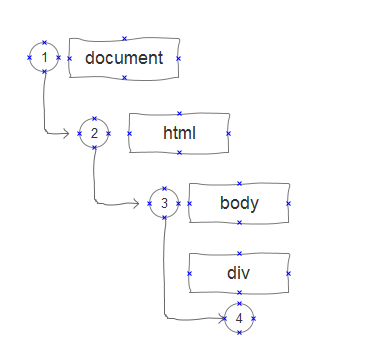
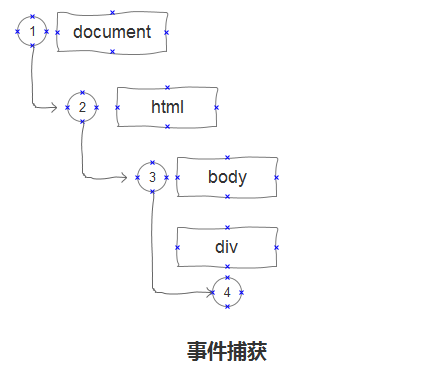
update Readme.md

diff --git a/2016/javascript事件.md b/2016/javascript事件.md
@@ -10,9 +10,8 @@
 * `事件处理程序`：通俗点来说，用来处理或响应事件的函数，而注册方式有很多种。
 
 ##进入主题
-###事件流
-“事件”本身并不是一个专业术语，大多情况下，我们都是用它来描述发生了什么事情，而在浏览器中，我们可以理解为浏览器或文档的发生的事情，很好理解，这里就没有必要继续阐述了。  
-我个人比较关注了还是“**事件流**”，作为一名初级前端开发程序员，我曾经对这个概念相当的模糊，不是因为本身的概念很难明白，而是这个概念要追溯到上个世纪90年代的，由于当时的浏览器开发商微软和Netscape（网景）对于事件流提出了几乎完全相反的事件流。  
+###事件流  
+作为一名初级前端开发程序员，我曾经对这个概念相当的模糊，不是因为本身的概念很难明白，而是这个概念要追溯到上个世纪90年代的，当时对事件流的理解没有达成一致，浏览器开发团队微软和Netscape（网景）对于事件流提出了几乎完全相反的事件流。  
 
 * IE：它认为事件流是事件冒泡流。
 * Netscape：它则认为事件流是事件捕获流。
@@ -20,14 +19,52 @@
 ####事件冒泡流   
 由IE开发团队提出，它认为事件开始时由最具体的元素接收，然后，逐级向上传播到较为不具体的节点。 这个很比较理解，因为生活中有很多直观的例子，比如水中的鱼儿吐出的气泡（事件）。如图  
 ![小鱼冒泡](https://raw.githubusercontent.com/linjinying/jsnotes/master/pictrues/2016/1.png)  
-也就是说，在浏览器的DOM结构中，假设用户点击了某个节点，此时这个事件就像鱼儿吐了一个气泡一样，一层又一层的向上冒泡，一直冒泡到了水平面（window对象）。 值得注意的是`IE 9`之前的版本是事件只会冒泡到了document对象，而`ie 5.5`及更早的版本中，事件会跳过html，直接到document对象。]  
+也就是说，在浏览器的DOM结构中，假设用户点击了某个节点，此时这个事件就像鱼儿吐了一个气泡一样，一层又一层的向上冒泡，一直冒泡到了水平面（window对象）。 
+#####注意：
+对于冒泡流的事件流机制，存在如下的兼容问题：  
+
+- `ie5.5或以下` p -> div -> body -> document    
+
+
+- `ie6+`  p -> div -> body -> html ->　document    
+
+
+- `ie9+,firefox,chrome,safari` p -> div -> body -> html ->　document -> window
 
 ####事件捕获流   
 这个概念显得没有那么直白，甚至有些反正常的思维。最早由Netscape团队提出的捕获流，它认为事件应该从不太具体的节点开始接收，而最具体的节点应该最后接收到事件，事件捕获的用意在在于在事件到达预定目标之前捕获它，如图
 
-##此处插入图片
+![事件捕获](https://raw.githubusercontent.com/linjinying/jsnotes/master/pictrues/2016/2.png)
   
-其实在生活中，也有许多例子。例如公司的前台MM帮员工代收快递，一件快递在到你手上之前，一般会经过前台MM，还可能同事帮你跑腿，再到你手上，这个快递最后才会落在你手上。  
+其实在生活中，也有许多例子。例如公司的前台MM帮员工代收快递，一件快递在到你手上之前，一般会经过前台MM，还可能同事帮你跑腿，再到你手上，这个快递最后才会落在你手上。   
 因为IE9以下的浏览器不支持事件捕获流，所以，建议使用事件冒泡流。必要的时候，再使用事件捕获。
+尽管“DOM2级事件”的规范是要求事件捕获是从document对象开始传播，但是大多数浏览器都是从window开始传播： window -> document -> html -> body -> div  
 
-`DOM事件流` DOM事件流是在“DOM2级事件”中规范出来的，它规定的事件流应该包括三个阶段：事件捕获阶段、处于目标阶段、事件冒泡阶段。首先发生的是事件捕获、为截获事件提供了机会。然后是实际的目标收到事件。最后一个阶段是冒泡阶段，可以在这个阶段对事件做出响应。假设在页面上点击了一个div元素，这个事件会按照下面的顺序图进行传播。
+####DOM事件流 
+DOM事件流是在“DOM2级事件”中规范出来的，它规定的事件流应该包括三个阶段：事件捕获阶段、处于目标阶段、事件冒泡阶段。首先发生的是事件捕获、为截获事件提供了机会。然后是实际的目标收到事件。最后一个阶段是冒泡阶段，可以在这个阶段对事件做出响应。假设在页面上点击了一个div元素，这个事件会按照下面的顺序图进行传播。
+![DOM事件流](https://raw.githubusercontent.com/linjinying/jsnotes/master/pictrues/2016/3.png)
+
+IE9、Opera、Firefox、Chrome和Safari都支持DOM事件流。
+
+你点个赞。其实javascript的事件流的内容大概就是这些了。然而你会问，这么多理论，到底有个卵用啊？？？肯定有卵用啦，不然人家也不会出规范啦。这里我写了一个实例，帮助大家理解DOM事件流  
+```html
+<div id="div">
+	<button id="button">button</button>
+</div>
+```
+```javascript
+var $button = document.getElementById("button");
+var $div = document.getElementById("div");
+$div.addEventListener("click",function(event){
+    console.info("这是捕获阶段的div");
+},true);
+$button.addEventListener("click",function(event){
+	console.info("这是捕获阶段的button");
+},true);
+$button.addEventListener("click",function(event){
+	console.info("这是冒泡阶段的button");
+},false);
+$div.addEventListener("click",function(event){
+    console.info("这是冒泡阶段的div");
+},false);
+```
